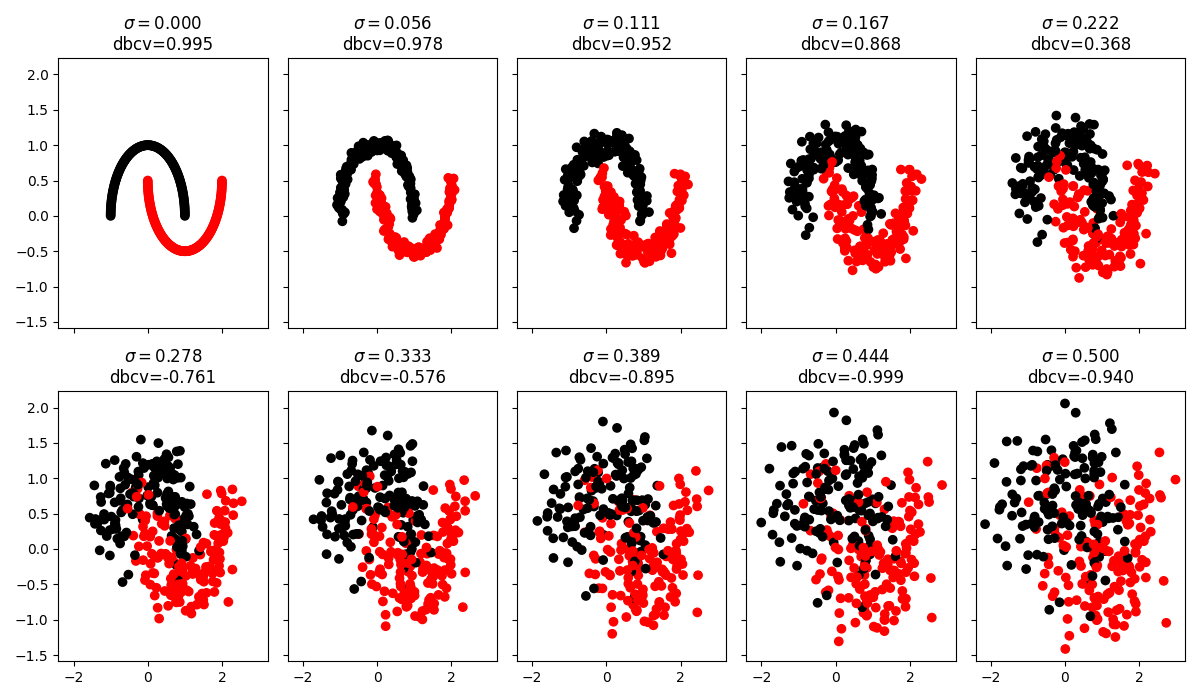
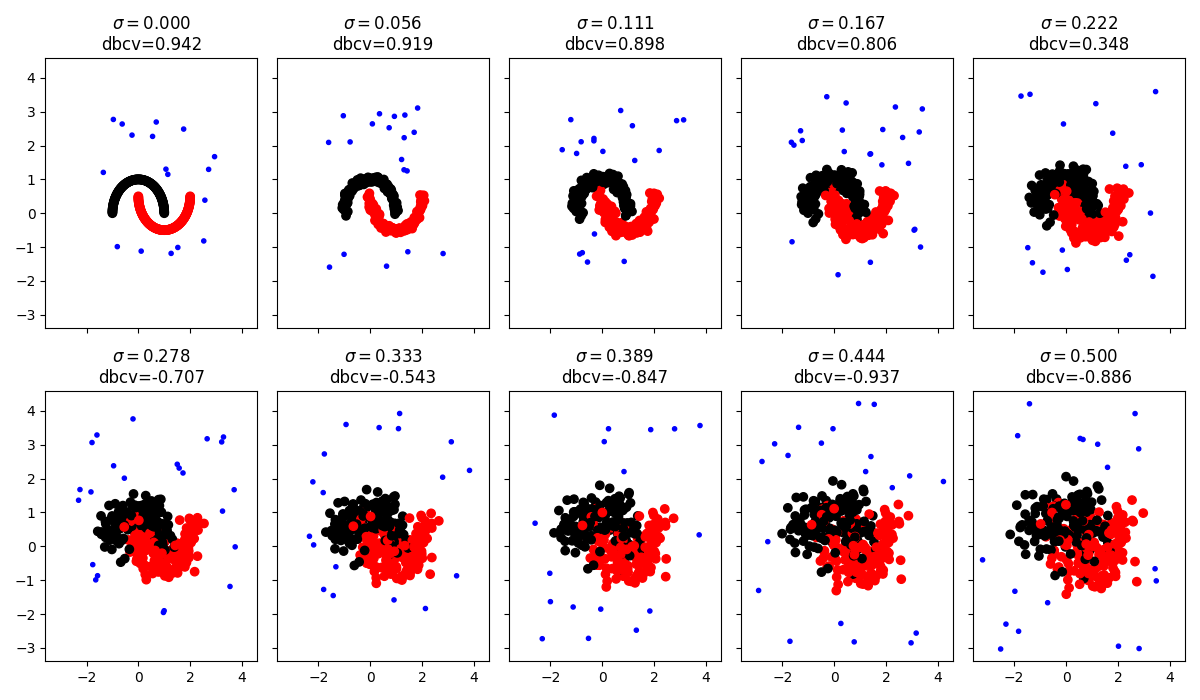
update: update plot_moons.py example

diff --git a/tests/plot_moons.py b/tests/plot_moons.py
@@ -1,6 +1,7 @@
 import os
 
 import matplotlib.pyplot as plt
+import sklearn.neighbors
 import sklearn.datasets
 import numpy as np
 
@@ -9,13 +10,24 @@ import dbcv
 
 def test():
     fig, axes = plt.subplots(2, 5, figsize=(12, 7), sharex=True, sharey=True, layout="tight")
-    colors = ["black", "red"]
+    colors = ["black", "red", "blue"]
 
     for i, noise in enumerate(np.linspace(0, 0.50, 10)):
         X, y = sklearn.datasets.make_moons(n_samples=300, noise=noise, random_state=1782)
-        score = dbcv.dbcv(X, y)
+
+        X_noise = np.random.uniform(*(1.50 * np.quantile(X, (0, 1))), size=(30, 2))
+        y_noise = np.asarray([-1] * len(X_noise), dtype=int)
+
+        dists, _ = sklearn.neighbors.NearestNeighbors(n_neighbors=1).fit(X).kneighbors(X_noise)
+        dists = dists.squeeze()
+        is_farther_away = dists > 0.5
+        X_noise = X_noise[is_farther_away, :]
+        y_noise = y_noise[is_farther_away]
+
+        score = dbcv.dbcv(np.vstack((X, X_noise)), np.hstack((y, y_noise)))
         ax = axes[i // 5][i % 5]
         ax.scatter(*X.T, c=[colors[yi] for yi in y])
+        ax.scatter(*X_noise.T, c=[colors[yi] for yi in y_noise], marker=".")
         ax.set_title(f"$\sigma={noise:.3f}$\ndbcv={score:.3f}")
 
     output_dir = os.path.abspath("./assets/")
